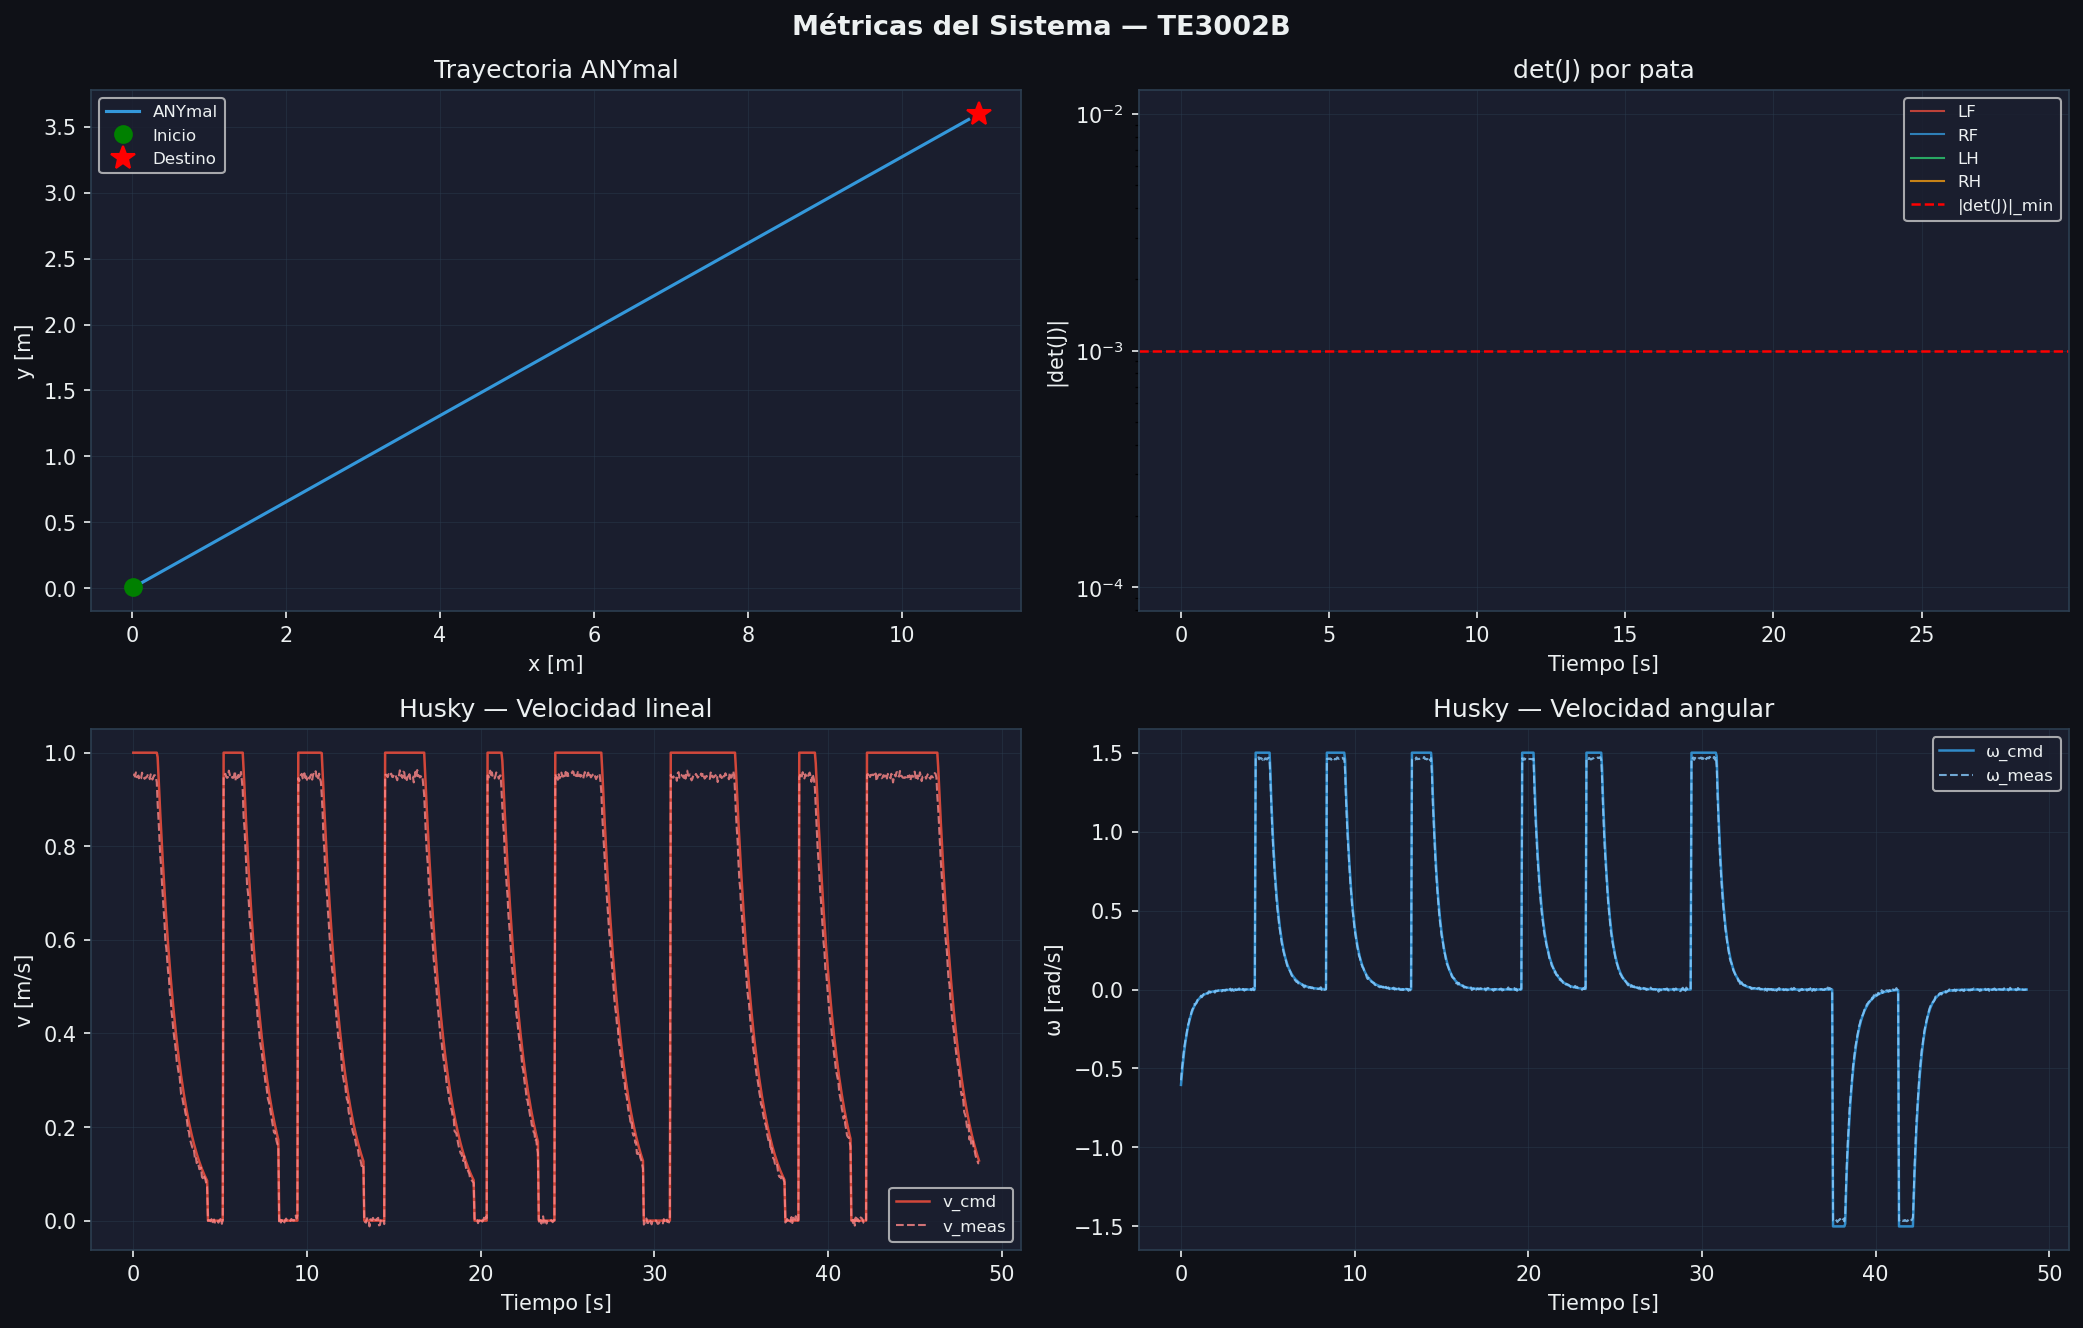
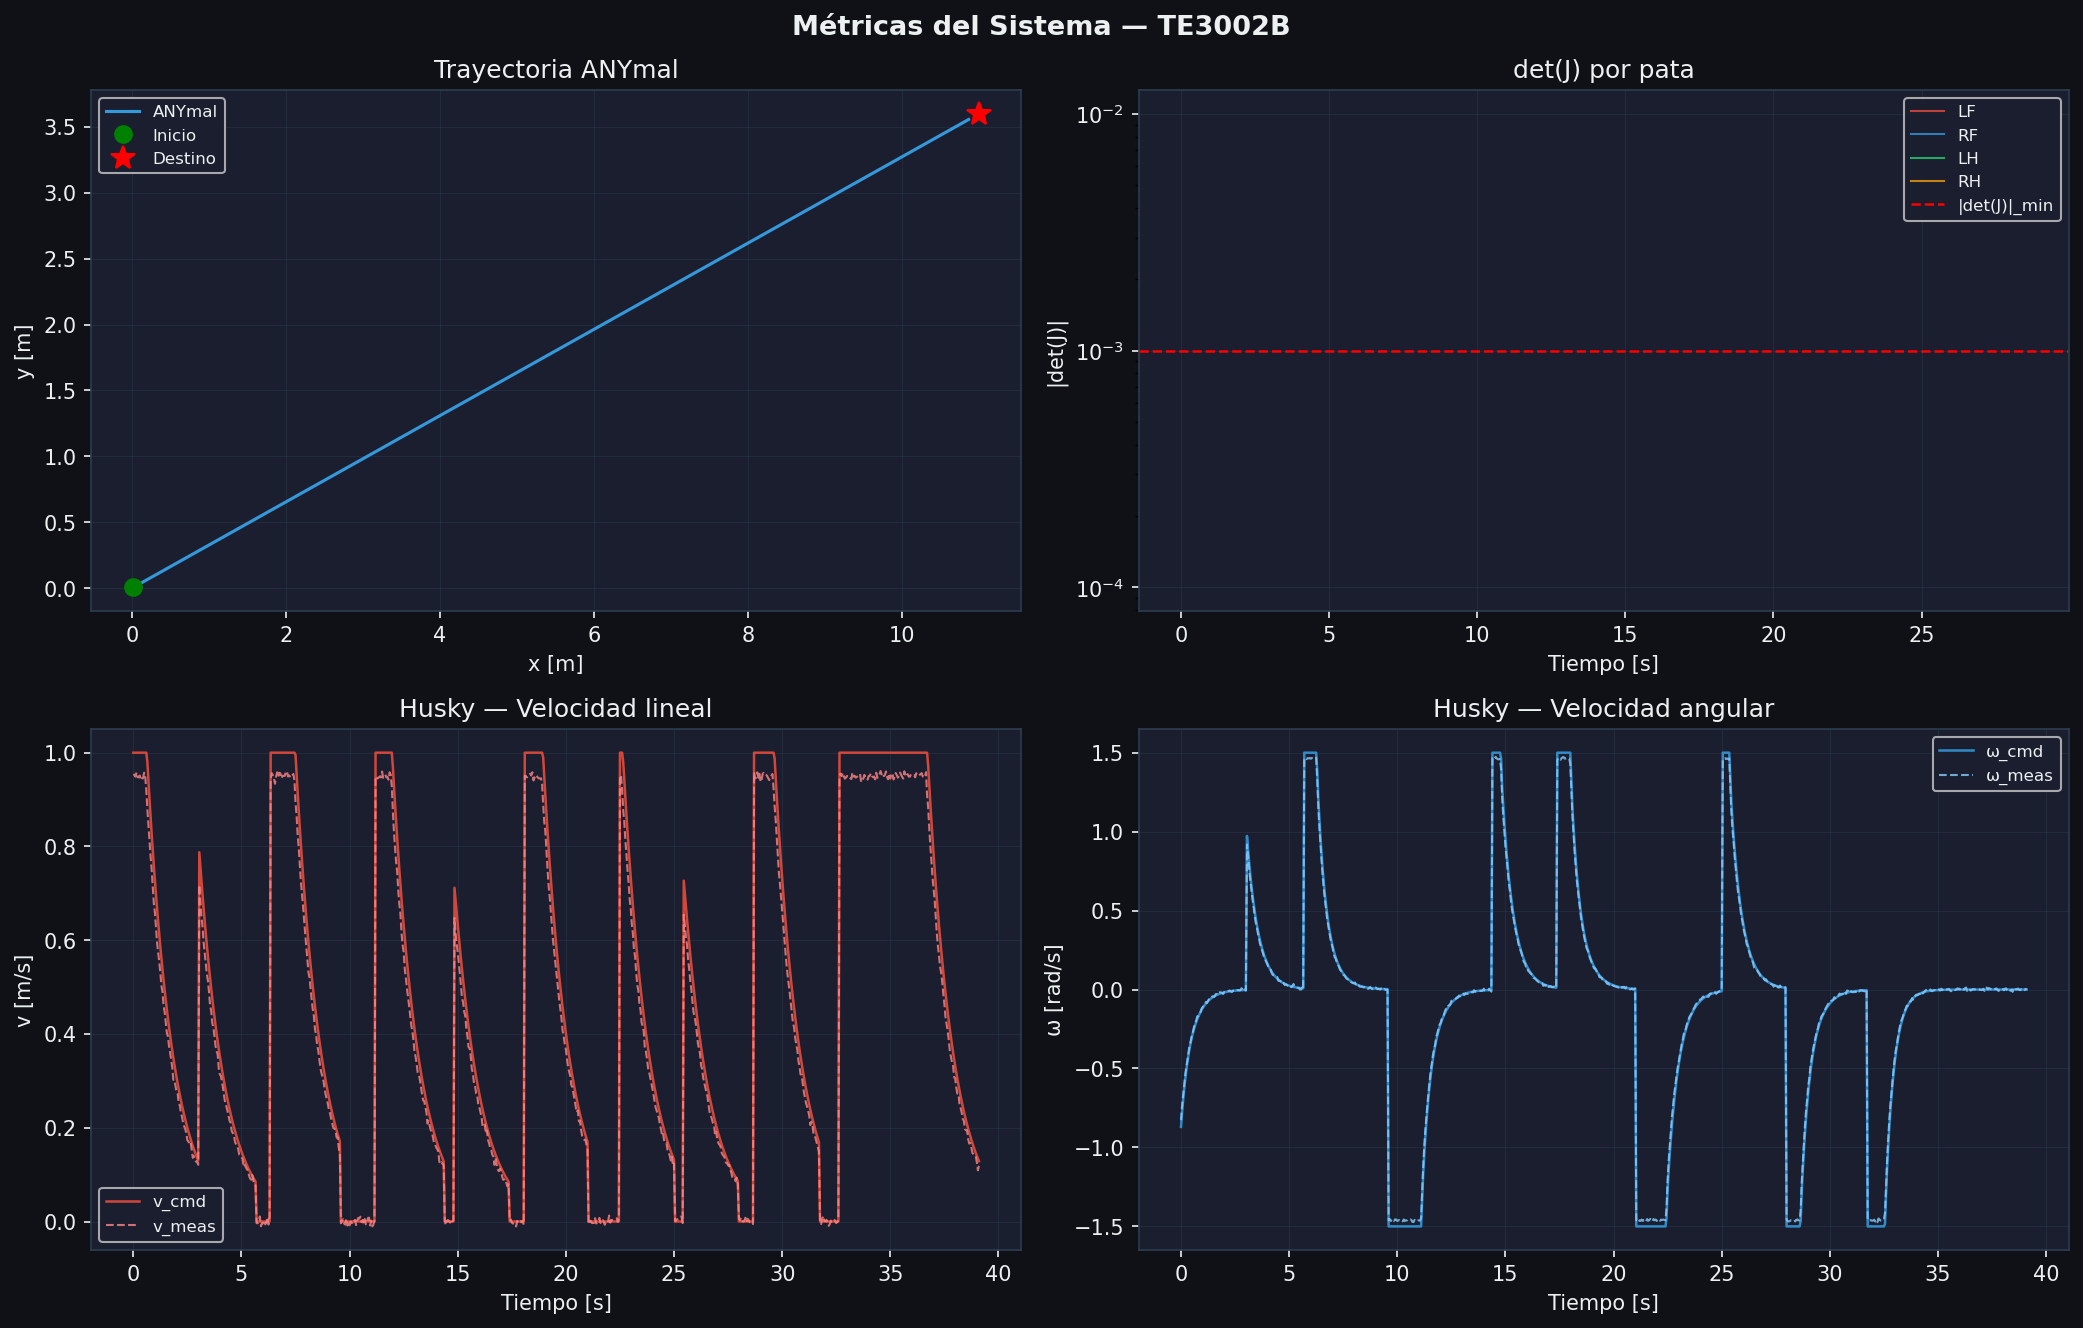
Improved the Husky's trajectory, avoiding collisions and going for all boxes in one go

diff --git a/husky_pusher.py b/husky_pusher.py
@@ -6,6 +6,7 @@ Sensor: LiDAR 2D simulado.
 """
 
 import numpy as np
+import time
 from typing import List, Tuple, Dict
 
 
@@ -179,12 +180,11 @@ class HuskyPusher:
         self.phase_log: List[str] = []
         self.time = 0.0
         
-        # State machine for non-blocking operation
+        # Máquina de estados no bloqueante
         self.nav_state = "IDLE"
         self.target_box = None
         self.target_pos = None
         self.pushing = False
-        self.returning = False
 
     def detect_boxes(self) -> List[Dict]:
         ranges = self.lidar.scan(self.state, self.boxes)
@@ -203,7 +203,7 @@ class HuskyPusher:
         tol_pos: float = 0.15, max_steps: int = 500,
         pushing: bool = False, current_box: Box = None
     ) -> bool:
-        """Navega al punto (x_goal, y_goal) permitiendo rotación en el lugar."""
+        """Navega de forma bloqueante (con sincronización de tiempo real para animación)."""
         for _ in range(max_steps):
             dx = x_goal - self.state.x
             dy = y_goal - self.state.y
@@ -215,21 +215,22 @@ class HuskyPusher:
             angle_to_goal = np.arctan2(dy, dx)
             angle_err = self._wrap_angle(angle_to_goal - self.state.theta)
 
-            # Acoplamiento de velocidad: solo avanza si está mirando hacia la meta
-            if abs(angle_err) < 0.5: # Aprox 28 grados
+            if abs(angle_err) < 0.5:
                 v_des = min(0.8 * dist, HUSKY_MAX_V)
             else:
-                v_des = 0.0 # Rota en su propio eje primero
+                v_des = 0.0
 
             w_des = 2.5 * angle_err
 
             v_cmd, w_cmd = self.controller.compute(self.state, v_des, w_des, self.dt)
             self._integrate(v_cmd, w_cmd)
             self.time += self.dt
+            
+            # ¡IMPORTANTE!: Pequeña pausa para que la animación en el Main Thread alcance a renderizar
+            time.sleep(self.dt * 0.5) 
 
-            # Si estamos empujando, actualizar la posición de la caja empíricamente
             if pushing and current_box is not None:
-                contact_distance = 0.4 # Distancia desde el centro del robot al centro de la caja
+                contact_distance = 0.4
                 current_box.x = self.state.x + contact_distance * np.cos(self.state.theta)
                 current_box.y = self.state.y + contact_distance * np.sin(self.state.theta)
 
@@ -245,56 +246,61 @@ class HuskyPusher:
     def _wrap_angle(a: float) -> float:
         return (a + np.pi) % (2 * np.pi) - np.pi
 
+    # ------------------------------------------------------------------
+    # Lógica No Bloqueante (Optimizado: Puntos Intermedios de Evasión)
+    # ------------------------------------------------------------------
+
     def push_box_nonblocking(self, box: Box) -> bool:
-        """Non-blocking version of push_box for smooth animation."""
+        """Versión no bloqueante que usa un PRE_POSITIONING para esquivar colisiones."""
         if self.nav_state == "IDLE":
-            print(f"\n[HuskyPusher] Iniciando empuje de caja {box.id}")
+            print(f"\n[HuskyPusher] Iniciando aproximación a caja {box.id}")
             self.target_box = box
-            self.nav_state = "POSITIONING"
             
-            # Determine push direction
             push_dir_y = 1.0 if box.y >= 0 else -1.0
             push_target_y = push_dir_y * (self.CORRIDOR_Y_MAX + box.height + 0.3)
-            
-            # Set positioning target
             offset = 0.6
+            
+            # Punto intermedio: 0.8 metros antes de la caja en el eje X para no chocar
             self.target_pos = {
+                "pre_behind": np.array([box.x - 0.8, box.y - (push_dir_y * offset)]),
                 "behind": np.array([box.x, box.y - (push_dir_y * offset)]),
-                "push": np.array([box.x, push_target_y]),
-                "home": np.array([0.5, 0.0])
+                "push": np.array([box.x, push_target_y])
             }
+            
+            # Iniciar navegando hacia el punto seguro intermedio
+            self.nav_state = "PRE_POSITIONING"
+            return False
+
+        elif self.nav_state == "PRE_POSITIONING":
+            target = self.target_pos["pre_behind"]
+            if self._step_goto(target[0], target[1], tol_pos=0.15):
+                print(f"[HuskyPusher] En punto seguro. Alineándose con {self.target_box.id}")
+                self.nav_state = "POSITIONING"
             return False
             
         elif self.nav_state == "POSITIONING":
-            # Move to behind position
             target = self.target_pos["behind"]
             if self._step_goto(target[0], target[1], tol_pos=0.1):
+                print(f"[HuskyPusher] Posicionado. Empujando...")
                 self.nav_state = "PUSHING"
                 self.pushing = True
             return False
             
         elif self.nav_state == "PUSHING":
-            # Push the box
             target = self.target_pos["push"]
             if self._step_goto(target[0], target[1], tol_pos=0.2, pushing=True):
-                self.nav_state = "RETURNING"
                 self.pushing = False
                 
-                # Check if box is cleared
                 out = (self.target_box.y < self.CORRIDOR_Y_MIN - self.target_box.height / 2
                        or self.target_box.y > self.CORRIDOR_Y_MAX + self.target_box.height / 2)
                 self.target_box.cleared = out
                 
                 if out:
-                    print(f"[HuskyPusher] ✓ Caja {self.target_box.id} fuera del corredor")
+                    print(f"[HuskyPusher] ✓ Caja {self.target_box.id} despejada")
                 else:
-                    print(f"[HuskyPusher] ✗ Caja {self.target_box.id} sigue en el corredor")
-            return False
-            
-        elif self.nav_state == "RETURNING":
-            # Return to home position
-            target = self.target_pos["home"]
-            if self._step_goto(target[0], target[1], tol_pos=0.15):
+                    print(f"[HuskyPusher] ✗ Caja {self.target_box.id} sigue en corredor")
+                
+                # Pasa directo a IDLE para enganchar la siguiente caja
                 self.nav_state = "IDLE"
                 self.target_box = None
                 self.target_pos = None
@@ -305,7 +311,7 @@ class HuskyPusher:
     
     def _step_goto(self, x_goal: float, y_goal: float, tol_pos: float = 0.15, 
                    pushing: bool = False) -> bool:
-        """Single step of goto for non-blocking operation."""
+        """Paso único de navegación para animaciones no bloqueantes."""
         dx = x_goal - self.state.x
         dy = y_goal - self.state.y
         dist = np.hypot(dx, dy)
@@ -316,7 +322,6 @@ class HuskyPusher:
         angle_to_goal = np.arctan2(dy, dx)
         angle_err = self._wrap_angle(angle_to_goal - self.state.theta)
 
-        # Velocity coupling
         if abs(angle_err) < 0.5:
             v_des = min(0.8 * dist, HUSKY_MAX_V)
         else:
@@ -328,7 +333,6 @@ class HuskyPusher:
         self._integrate(v_cmd, w_cmd)
         self.time += self.dt
 
-        # Update box position if pushing
         if pushing and self.target_box is not None:
             contact_distance = 0.4
             self.target_box.x = self.state.x + contact_distance * np.cos(self.state.theta)
@@ -337,33 +341,80 @@ class HuskyPusher:
         return False
 
     def clear_corridor_step(self) -> bool:
-        """Single step of corridor clearing for non-blocking animation."""
-        # Find next uncleared box
+        """Iteración global de la máquina de estados."""
         if self.nav_state == "IDLE":
             for box in self.boxes:
                 if not box.cleared:
                     self.push_box_nonblocking(box)
-                    break
-            else:
-                # All boxes cleared, return to start
-                if not self.returning:
-                    self.nav_state = "RETURNING"
-                    self.target_pos = {"home": np.array([0.5, 0.0])}
-                    self.returning = True
-                else:
-                    if self._step_goto(0.5, 0.0, tol_pos=0.15):
-                        self.returning = False
-                        corridor_clear = all(box.cleared for box in self.boxes)
-                        print(f"\n[HuskyPusher] Corredor {'✓ DESPEJADO' if corridor_clear else '✗ NO despejado'}")
-                        return True
+                    return False
+            
+            # Si terminamos el ciclo y no hay cajas, activamos el retorno global
+            self.nav_state = "RETURNING_HOME"
+            self.target_pos = {"home": np.array([0.5, 0.0])}
+            return False
+            
+        elif self.nav_state == "RETURNING_HOME":
+            target = self.target_pos["home"]
+            if self._step_goto(target[0], target[1], tol_pos=0.15):
+                self.nav_state = "DONE"
+                corridor_clear = all(box.cleared for box in self.boxes)
+                print(f"\n[HuskyPusher] Corredor {'✓ DESPEJADO' if corridor_clear else '✗ NO despejado'}")
+                return True
+            return False
+            
+        elif self.nav_state == "DONE":
+            return True
+            
         else:
-            # Continue current operation
+            # Sigue con la operación actual (PRE_POSITIONING, POSITIONING o PUSHING)
             self.push_box_nonblocking(self.target_box)
             
         return False
         
+    # ------------------------------------------------------------------
+    # Ejecución Bloqueante (Usada por el Coordinator heredado)
+    # ------------------------------------------------------------------
+    
+    def push_box(self, box: Box) -> bool:
+        """Versión bloqueante con puntos intermedios."""
+        print(f"\n[HuskyPusher] Aproximación segura a caja {box.id}")
+
+        push_dir_y = 1.0 if box.y >= 0 else -1.0
+        push_target_y = push_dir_y * (self.CORRIDOR_Y_MAX + box.height + 0.3)
+
+        offset = 0.6
+        behind_y = box.y - (push_dir_y * offset)
+        
+        # 1. Punto intermedio
+        pre_behind_x = box.x - 0.8
+        ok = self.goto(pre_behind_x, behind_y, tol_pos=0.15)
+        if not ok: return False
+            
+        # 2. Detrás de la caja
+        behind_x = box.x
+        ok = self.goto(behind_x, behind_y, tol_pos=0.1)
+        if not ok:
+            print(f"[HuskyPusher] No pude posicionarme detrás de {box.id}")
+            return False
+
+        # 3. Empujar
+        push_x = box.x
+        push_y = push_target_y
+        ok = self.goto(push_x, push_y, tol_pos=0.2, pushing=True, current_box=box)
+
+        out = (box.y < self.CORRIDOR_Y_MIN - box.height / 2
+               or box.y > self.CORRIDOR_Y_MAX + box.height / 2)
+        box.cleared = out
+
+        if out:
+            print(f"[HuskyPusher] ✓ Caja {box.id} fuera del corredor → ({box.x:.2f}, {box.y:.2f})")
+        else:
+            print(f"[HuskyPusher] ✗ Caja {box.id} sigue en el corredor")
+
+        return out
+
     def clear_corridor(self) -> bool:
-        """Legacy blocking version for compatibility."""
+        """Limpia todo secuencialmente y regresa a la base al final."""
         print("\n" + "=" * 50)
         print("  FASE 1: Despeje del corredor — Husky A200")
         print("=" * 50)
@@ -377,7 +428,7 @@ class HuskyPusher:
             if not success:
                 all_clear = False
 
-        # Volver a zona de inicio
+        # Volver a zona de inicio UNA SOLA VEZ al final
         self.goto(0.5, 0.0)
 
         print("\n[HuskyPusher] Reporte final:")
